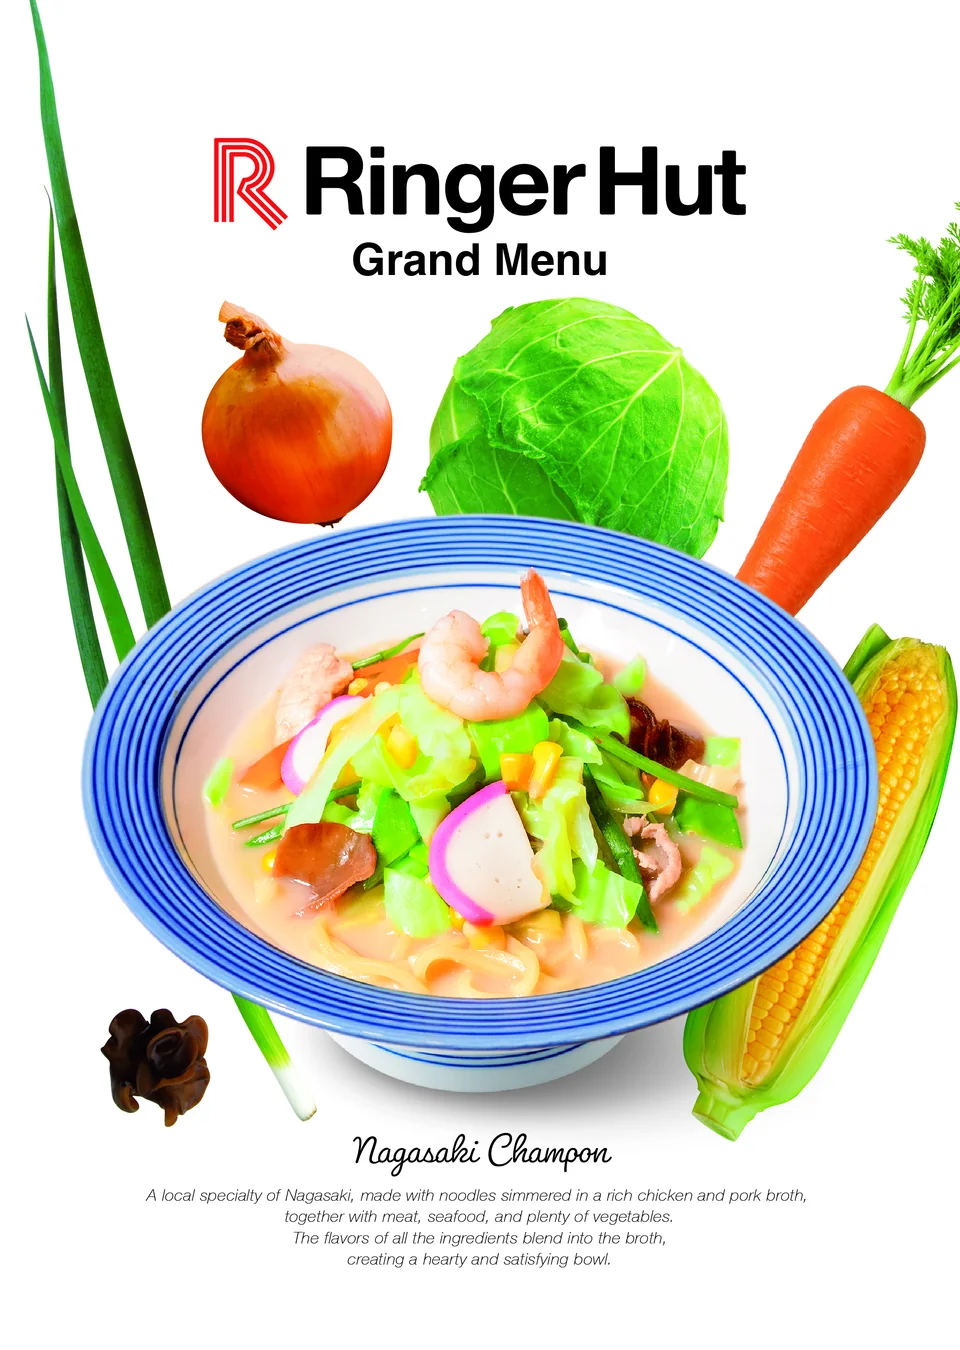
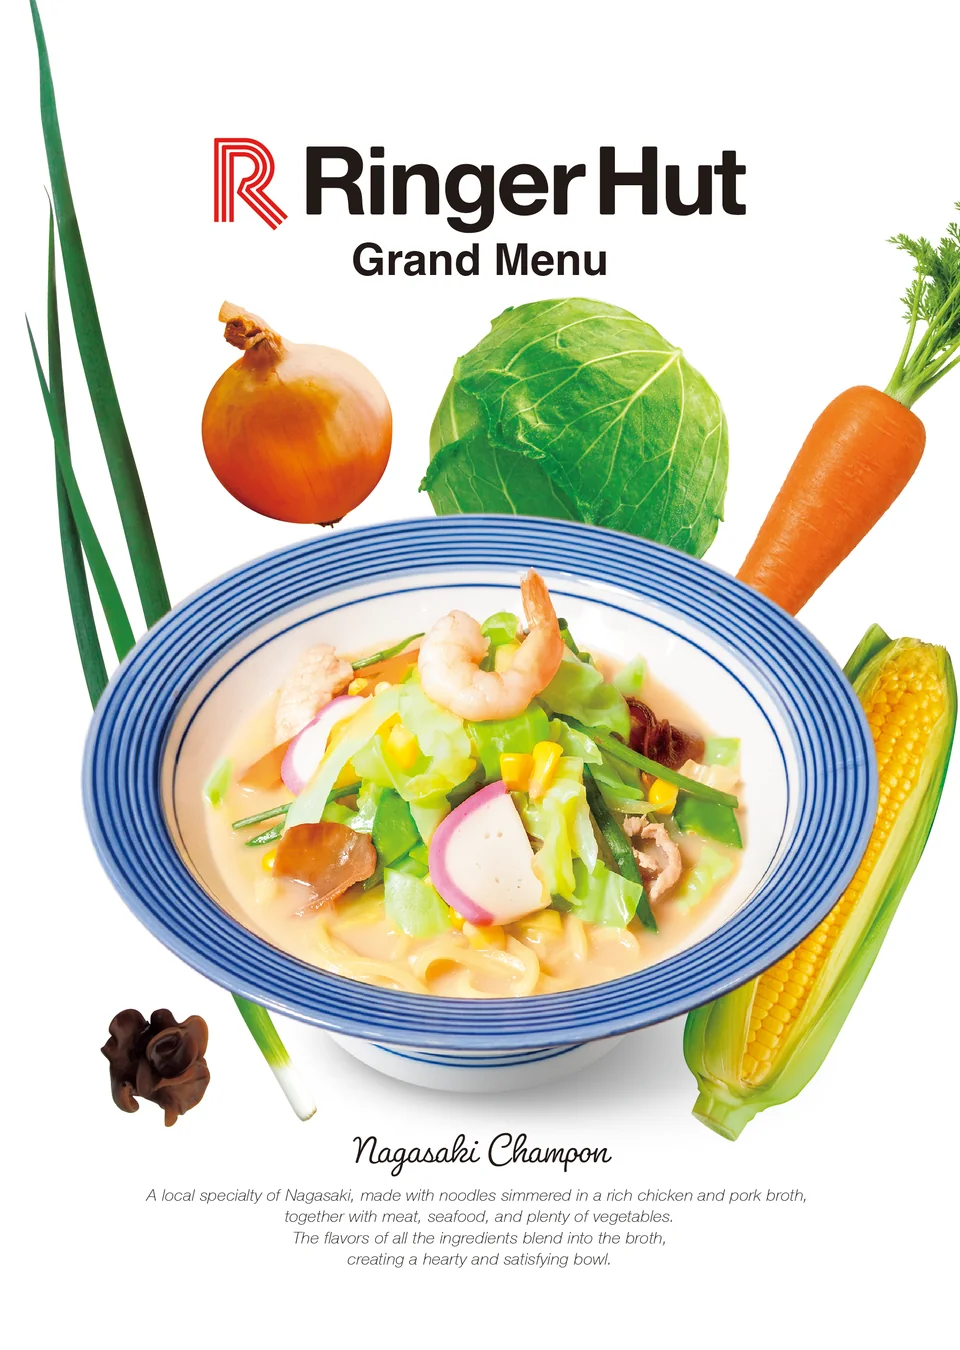
Fix Ringer Hut CMYK color conversion

diff --git a/scripts/optimize_images.py b/scripts/optimize_images.py
@@ -10,22 +10,27 @@ WebP copies next to the public root:
 and records `width`, `height` and the generated `web` widths back into the
 asset entry, so the site can reserve layout space (no CLS) and serve srcset.
 
-Originals are never modified. Resizing / re-encoding only — no crop, no colour
-correction (embedded ICC profiles are carried over).
+Originals are never modified. Resizing / re-encoding only — no crop or visual
+adjustments. CMYK originals with embedded profiles are colorimetrically
+converted to sRGB before web derivatives are made; RGB originals retain their
+existing pixel values and valid RGB profiles.
 
 Usage:  pip install pillow && python3 scripts/optimize_images.py
 """
 
 import json
 from pathlib import Path
+import io
 
-from PIL import Image
+from PIL import Image, ImageCms
 
 ROOT = Path(__file__).resolve().parent.parent
 PUBLIC = ROOT / "public"
 DATA = PUBLIC / "data" / "portfolio.json"
 WIDTHS = (960, 1920)
 QUALITY = 84
+SRGB_PROFILE = ImageCms.createProfile("sRGB")
+SRGB_ICC = ImageCms.ImageCmsProfile(SRGB_PROFILE).tobytes()
 
 
 def web_path(src: str, width: int) -> Path:
@@ -41,7 +46,29 @@ def process(asset: dict) -> None:
 
     with Image.open(source) as im:
         icc = im.info.get("icc_profile")
-        im = im.convert("RGBA") if im.mode in ("P", "LA", "RGBA") else im.convert("RGB")
+        if im.mode == "CMYK" and icc:
+            source_profile = ImageCms.ImageCmsProfile(io.BytesIO(icc))
+            im = ImageCms.profileToProfile(
+                im,
+                source_profile,
+                SRGB_PROFILE,
+                renderingIntent=ImageCms.Intent.PERCEPTUAL,
+                outputMode="RGB",
+            )
+            icc = SRGB_ICC
+        elif im.mode in ("P", "LA", "RGBA"):
+            im = im.convert("RGBA")
+        else:
+            im = im.convert("RGB")
+            if icc:
+                try:
+                    profile = ImageCms.ImageCmsProfile(io.BytesIO(icc))
+                    color_space = profile.profile.xcolor_space.strip()
+                except (OSError, ValueError, ImageCms.PyCMSError):
+                    color_space = ""
+                # Never attach a non-RGB source profile to an RGB derivative.
+                if color_space != "RGB":
+                    icc = None
         if im.mode == "RGBA" and im.getchannel("A").getextrema()[0] == 255:
             im = im.convert("RGB")
         width, height = im.size
@@ -55,7 +82,16 @@ def process(asset: dict) -> None:
             w = min(target, width)
             out = web_path(asset["src"], w)
             out.parent.mkdir(parents=True, exist_ok=True)
-            if not out.exists() or out.stat().st_mtime < source.stat().st_mtime:
+            existing_profile = _embedded_icc_name(out) if out.exists() else None
+            output_profile = _profile_name(icc) if icc else None
+            if (
+                not out.exists()
+                or out.stat().st_mtime < source.stat().st_mtime
+                or (
+                    asset.get("forceColorProfileRefresh")
+                    and existing_profile != output_profile
+                )
+            ):
                 h = round(height * w / width)
                 resized = im if w == width else im.resize((w, h), Image.LANCZOS)
                 kwargs = {"quality": QUALITY, "method": 6}
@@ -64,6 +100,23 @@ def process(asset: dict) -> None:
                 resized.save(out, "WEBP", **kwargs)
             made.append(w)
         asset["web"] = made
+        asset.pop("forceColorProfileRefresh", None)
+
+
+def _profile_name(icc: bytes) -> str:
+    try:
+        return ImageCms.getProfileName(ImageCms.ImageCmsProfile(io.BytesIO(icc))).strip()
+    except (OSError, ValueError, ImageCms.PyCMSError):
+        return ""
+
+
+def _embedded_icc_name(path: Path) -> str:
+    try:
+        with Image.open(path) as im:
+            icc = im.info.get("icc_profile")
+        return _profile_name(icc) if icc else ""
+    except OSError:
+        return ""
 
 
 def main() -> None:
